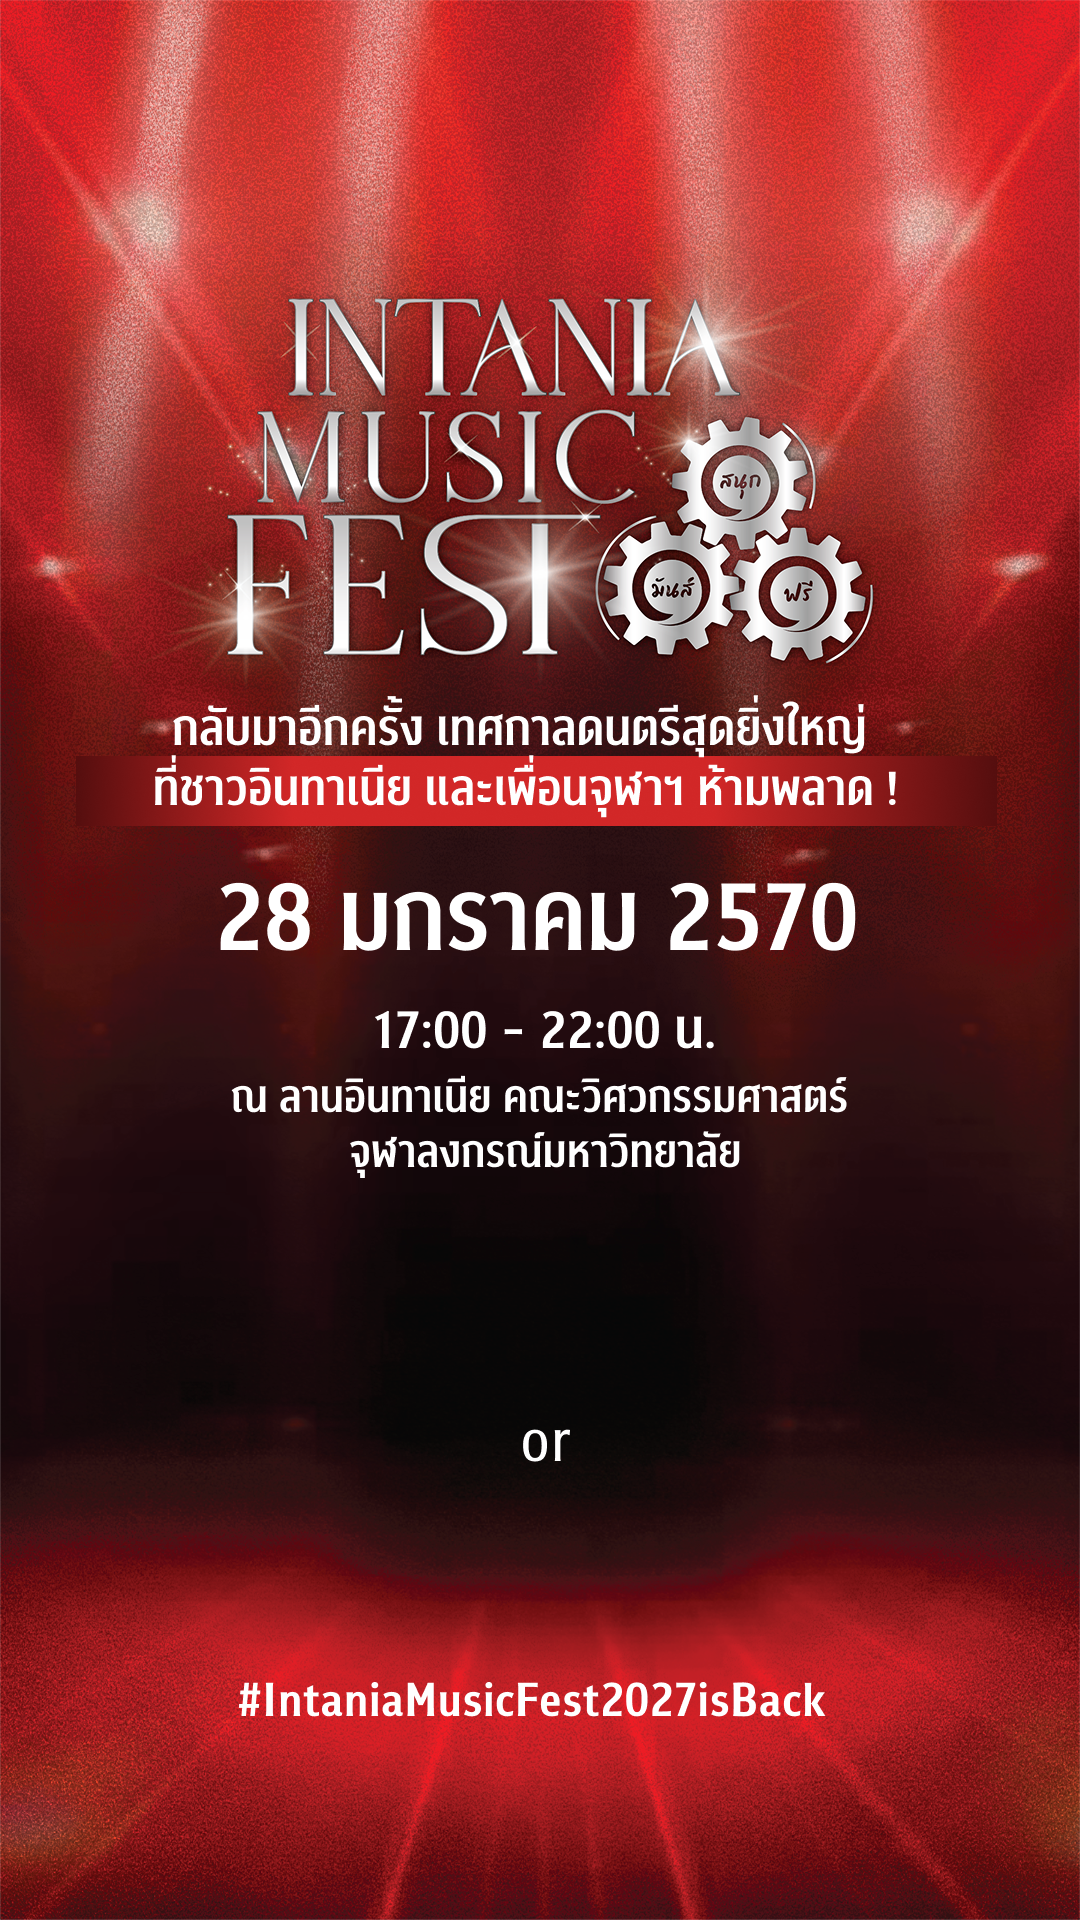
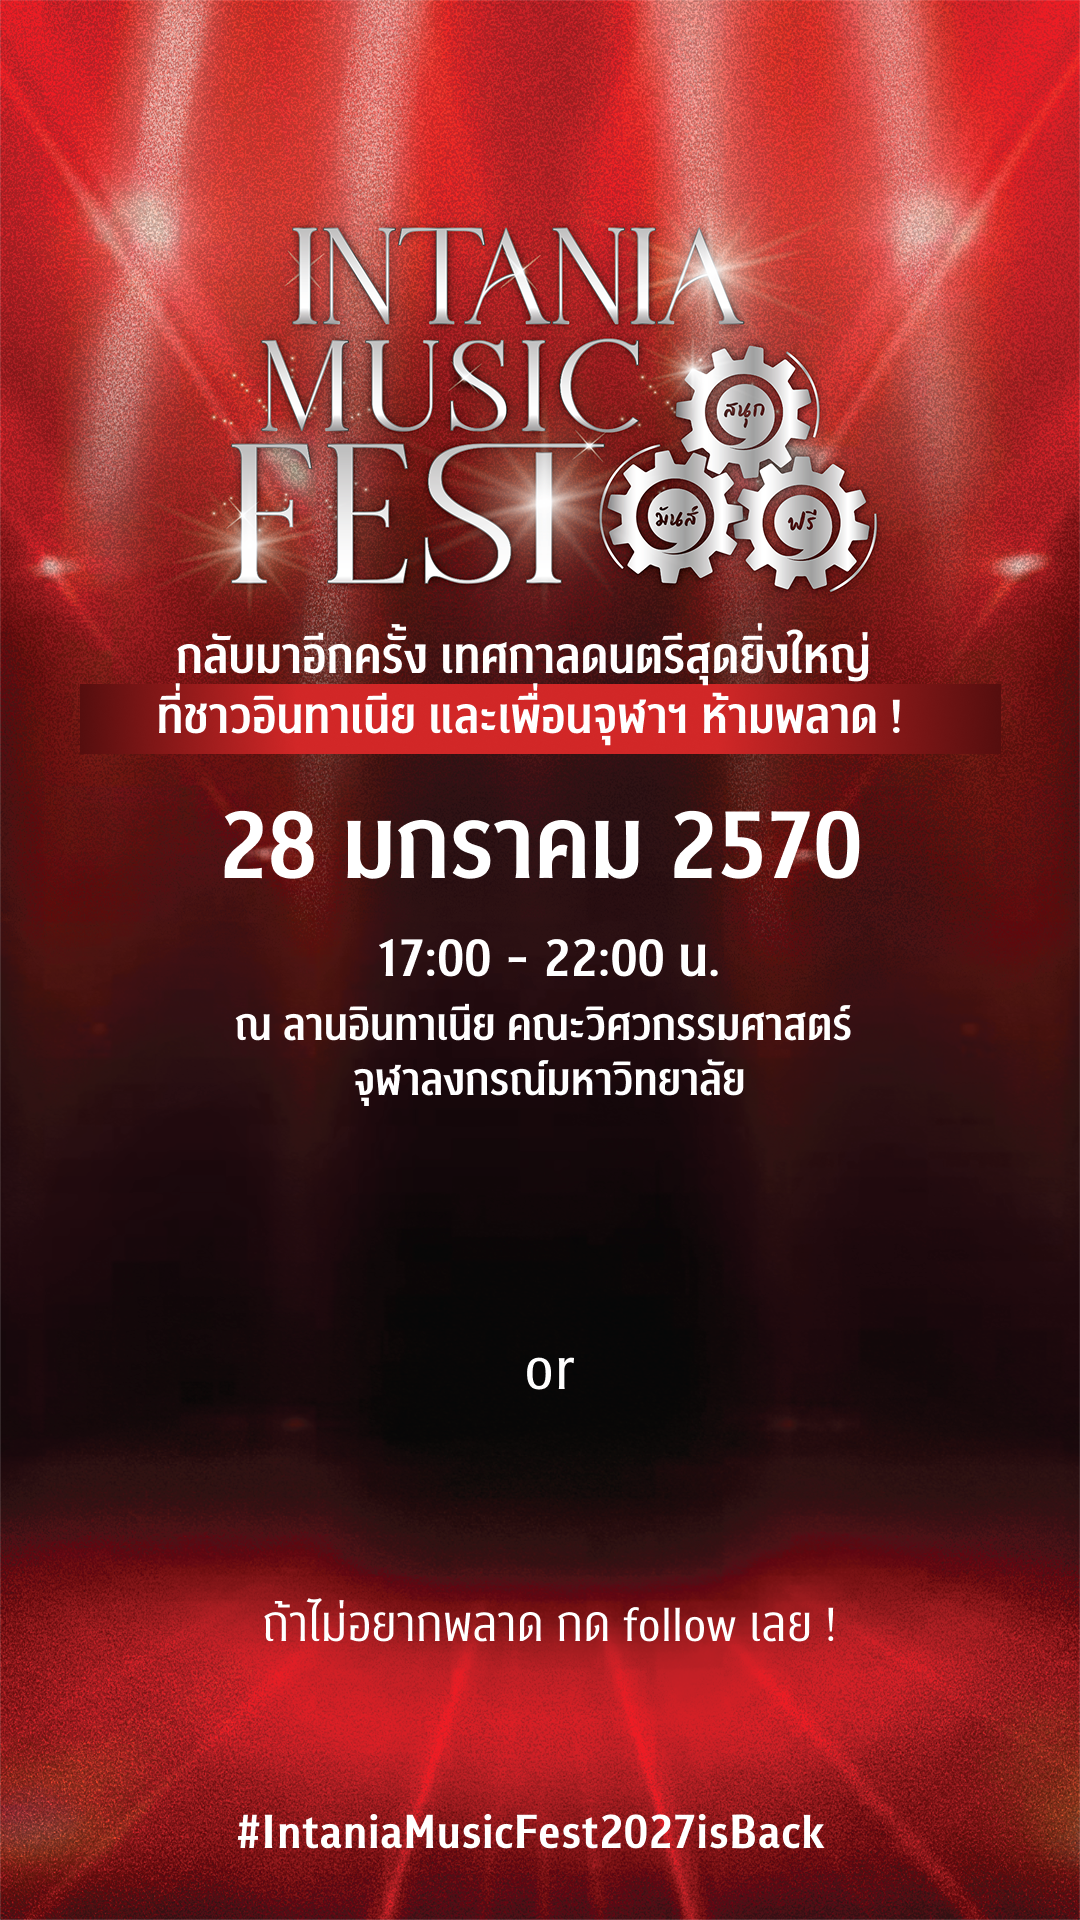
Add files via upload

diff --git a/index.html b/index.html
@@ -8,12 +8,12 @@
   <meta property="og:title" content="INTANIA MUSIC FEST 2027 · Save the Date">
   <meta property="og:description" content="28 มกราคม 2570 · 17:00–22:00 น. · เพิ่มลงปฏิทินของคุณ">
   <meta name="theme-color" content="#1a0305">
-  <link rel="preload" as="image" href="background.png" fetchpriority="high">
+  <link rel="preload" as="image" href="background.png?v=2" fetchpriority="high">
 
   <!--
     วิธีแก้ไขหน้านี้
     - เปลี่ยนรูปพื้นหลัง  : แทนที่ไฟล์ background.png (ขนาด 1080x1920 px ควรเป็นอัตราส่วนเดียวกัน)
-    - เปลี่ยนรูปปุ่ม      : แทนที่ btn-google-calendar.png และ btn-apple-calendar.png
+    - เปลี่ยนรูปปุ่ม      : แทนที่ btn-google-calendar.png, btn-apple-calendar.png และ btn-instagram.png
     - เปลี่ยนตำแหน่งปุ่ม  : แก้ค่า --x --y --w --h ของ .btn-google / .btn-apple ใน CSS ด้านล่าง (หน่วยเป็นพิกเซลบนผืนผ้าใบ 1080x1920)
     - เปลี่ยนข้อมูลงาน    : แก้ลิงก์ Google Calendar ที่ปุ่มแรก และไฟล์ intania-music-fest-2027.ics สำหรับปุ่มที่สอง
   -->
@@ -48,7 +48,7 @@
       flex: none;
       width: var(--stage-w);
       aspect-ratio: var(--canvas-w) / var(--canvas-h);
-      background: url("background.png") center / 100% 100% no-repeat;
+      background: url("background.png?v=2") center / 100% 100% no-repeat;
     }
 
     /* บนมือถือที่จอยาวกว่ารูป: ต่อขอบล่างของรูปลงไป แล้วค่อย ๆ มืดลง (ไม่แตะ/ไม่ยืดรูปพื้นหลัง) */
@@ -94,8 +94,9 @@
     }
 
     /* พิกัดปุ่ม (px บนผืนผ้าใบ 1080x1920) */
-    .btn-google { --x: 112; --y: 1261; --w: 852; --h: 122; }
-    .btn-apple  { --x: 112; --y: 1499; --w: 857; --h: 122; }
+    .btn-google    { --x: 116; --y: 1189; --w: 852; --h: 122; }
+    .btn-apple     { --x: 116; --y: 1427; --w: 857; --h: 122; }
+    .btn-instagram { --x: 198; --y: 1624; --w: 702; --h: 163; }
 
     /* สำหรับโปรแกรมอ่านหน้าจอ */
     .sr-only {
@@ -110,7 +111,7 @@
       var show = function () { document.documentElement.classList.add('ready'); };
       var img = new Image();
       img.onload = img.onerror = show;
-      img.src = 'background.png';
+      img.src = 'background.png?v=2';
       setTimeout(show, 6000);
     })();
   </script>
@@ -132,6 +133,14 @@
        href="intania-music-fest-2027.ics"
        aria-label="Add to your Apple Calendar">
       <img src="btn-apple-calendar.png" alt="Add to your Apple Calendar" width="857" height="122" draggable="false">
+    </a>
+
+    <!-- ปุ่ม Instagram: เปิดหน้า Instagram ของงาน (บนมือถือจะเด้งเข้าแอป Instagram ถ้ามี) -->
+    <a class="btn btn-instagram"
+       href="https://www.instagram.com/intaniamusicfest?exln=MTl4c3I3M3R5aGx2Zw%3D%3D&amp;utm_source=qr"
+       target="_blank" rel="noopener"
+       aria-label="Instagram: intaniamusicfest">
+      <img src="btn-instagram.png" alt="IG: intaniamusicfest" width="702" height="163" draggable="false">
     </a>
   </main>
   <div class="fill" aria-hidden="true"></div>
